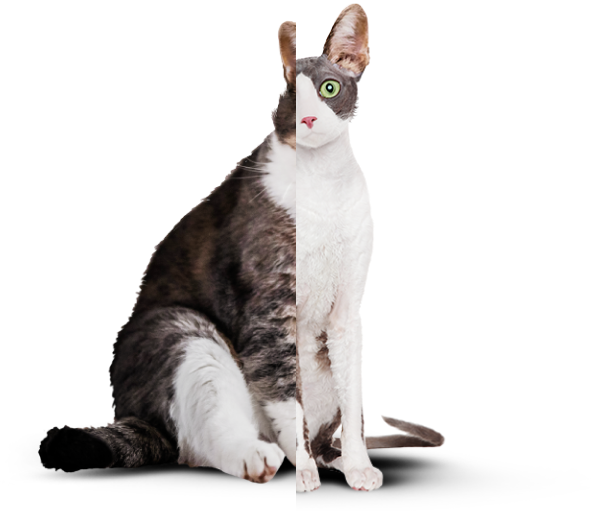
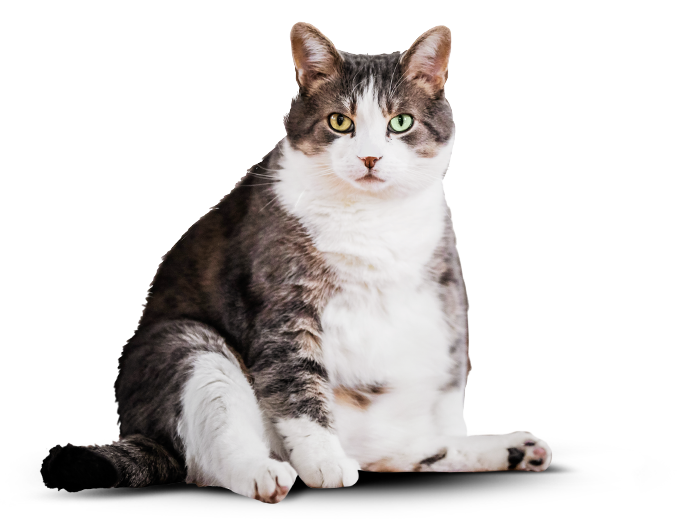
производительность вёрстки

Changed region(s): [[0.0608, 0.0, 0.8514, 0.9687]]

diff --git a/source/index.html b/source/index.html
@@ -5,10 +5,15 @@
   <meta charset="utf-8">
   <meta name="viewport" content="width=device-width,initial-scale=1">
   <title>HTML Academy: Кэт энерджи</title>
-  <link rel="icon" href="favicon.ico"><!-- 32×32 -->
+  <link rel="icon" href="favicon.ico">
   <link rel="icon" href="img/favicons/icon-32.svg" type="image/svg+xml">
-  <link rel="apple-touch-icon" href="img/favicons/apple-icon-180.png"><!-- 180×180 -->
+  <link rel="apple-touch-icon" href="img/favicons/apple-icon-180.png">
+  <link rel="manifest" href="manifest.webmanifest">
   <link rel="stylesheet" href="css/style.min.css">
+  <link rel="preload" href="fonts/oswaldregular.woff2" type="font/woff2" as="font" crossorigin="anonymous">
+  <link rel="preload" href="fonts/oswaldmedium.woff2" type="font/woff2" as="font" crossorigin="anonymous">
+  <link rel="preload" href="fonts/oswaldregular.woff" type="font/woff" as="font" crossorigin="anonymous">
+  <link rel="preload" href="fonts/oswaldmedium.woff" type="font/woff" as="font" crossorigin="anonymous">
 </head>
 
 <body class="page__body">
@@ -62,7 +67,7 @@
             <img class="promo__image" src="img/index-can-mobile.png" srcset="img/index-can-mobile@2x.png 2x" width="280"
               height="270" alt="Функциональное питание c курицей.">
           </picture>
-          <a class="button-choose-program button--green button" href="form.html">Подобрать программу</a>
+          <a class="button-choose-program button button--green" href="form.html">Подобрать программу</a>
         </div>
       </section>
       <section class="programs">
@@ -73,13 +78,13 @@
               <h3 class="programs__title">Похудение</h3>
               <p class="programs__description">Ваш кот весит больше собаки и почти утратил способность лазить по
                 деревьям? Пора на диету! Cat Energy Slim поможет вашему питомцу сбросить лишний вес.</p>
-              <a href="catalog.html" class="programs__link">каталог slim</a>
+              <a class="programs__link" href="catalog.html">каталог slim</a>
             </li>
             <li class="programs__item programs__item--pro">
               <h3 class="programs__title">Набор массы</h3>
               <p class="programs__description">Заработать авторитет среди дворовых котов и даже собак? Серия Cat Energy
                 Pro поможет вашему коту нарастить необходимые мышцы!</p>
-              <a href="catalog.html" class="programs__link">каталог pro</a>
+              <a class="programs__link" href="catalog.html">каталог pro</a>
             </li>
           </ul>
         </div>
@@ -135,25 +140,33 @@
           <div class="case__photo slider">
             <h3 class="visually-hidden">Фото до и после</h3>
             <div class="slider__photo">
-              <picture>
-                <source type="image/webp" media="(min-width: 768px)"
-                  srcset="img/cat-before-tablet.webp, img/cat-before-tablet@2x.webp 2x">
-                <source type="image/webp" srcset="img/cat-before-mobile.webp, img/cat-before-mobile@2x.webp 2x">
-                <source media="(min-width: 768px)" srcset="img/cat-before-tablet.png, img/cat-before-tablet@2x.png 2x">
-                <img class="slider__photo-before" src="img/cat-before-mobile.png"
-                  srcset="img/cat-before-mobile@2x.png 2x" width="280" height="232" alt="Толстый кот.">
-              </picture>
-              <!--
-              <picture>
-                <img class="slider__photo-after" src="img/after-mobile.png" srcset="img/before-mobile@2x.png 2x"
-                  width="280" height="232" alt="Тощий кот.">
-                -->
+              <div class="slider__photo-after">
+                <picture>
+                  <source type="image/webp" media="(min-width: 768px)"
+                    srcset="img/cat-after-tablet.webp, img/cat-after-tablet@2x.webp 2x">
+                  <source type="image/webp" srcset="img/cat-after-mobile.webp, img/cat-after-mobile@2x.webp 2x">
+                  <source media="(min-width: 768px)" srcset="img/cat-after-tablet.png, img/cat-after-tablet@2x.png 2x">
+                  <img src="img/cat-after-mobile.png" srcset="img/cat-after-mobile@2x.png 2x" width="280" height="232"
+                    alt="Тощий кот.">
+                </picture>
+              </div>
+              <div class="slider__photo-before">
+                <picture>
+                  <source type="image/webp" media="(min-width: 768px)"
+                    srcset="img/cat-before-tablet.webp, img/cat-before-tablet@2x.webp 2x">
+                  <source type="image/webp" srcset="img/cat-before-mobile.webp, img/cat-before-mobile@2x.webp 2x">
+                  <source media="(min-width: 768px)"
+                    srcset="img/cat-before-tablet.png, img/cat-before-tablet@2x.png 2x">
+                  <img src="img/cat-before-mobile.png" srcset="img/cat-before-mobile@2x.png 2x" width="280" height="232"
+                    alt="Толстый кот.">
+                </picture>
+              </div>
             </div>
             <div class="slider__range">
               <p class="slider__range-text">было</p>
               <div class="slider__progressbar">
                 <div class="slider__track"></div>
-                <button class="slider__thumb"></button>
+                <button class="slider__thumb" type="button"></button>
               </div>
               <p class="slider__range-text">стало</p>
             </div>
@@ -167,8 +180,7 @@
             <h3 class="visually-hidden">Адрес</h3><b class="contacts__prompt">приглашаем<br>к
               сотрудничеству<br>дилеров!</b>
             <p class="contacts__text">ул. Большая<br>Конюшенная, д. 19/8<br><span
-                class="contacts__city">Санкт-Петербург</span>
-            </p>
+                class="contacts__city">Санкт-Петербург</span></p>
           </div>
         </div>
         <div class="contacts__location">
@@ -232,6 +244,7 @@
       </div>
     </footer>
   </div>
+
   <script src="js/script.js"></script>
 </body>
 

diff --git a/source/catalog.html b/source/catalog.html
@@ -5,10 +5,15 @@
   <meta charset="utf-8">
   <meta name="viewport" content="width=device-width,initial-scale=1">
   <title>HTML Academy: Кэт энерджи</title>
-  <link rel="icon" href="favicon.ico"><!-- 32×32 -->
+  <link rel="icon" href="favicon.ico">
   <link rel="icon" href="img/favicons/icon-32.svg" type="image/svg+xml">
-  <link rel="apple-touch-icon" href="img/favicons/apple-icon-180.png"><!-- 180×180 -->
+  <link rel="apple-touch-icon" href="img/favicons/apple-icon-180.png">
+  <link rel="manifest" href="manifest.webmanifest">
   <link rel="stylesheet" href="css/style.min.css">
+  <link rel="preload" href="fonts/oswaldregular.woff2" type="font/woff2" as="font" crossorigin="anonymous">
+  <link rel="preload" href="fonts/oswaldmedium.woff2" type="font/woff2" as="font" crossorigin="anonymous">
+  <link rel="preload" href="fonts/oswaldregular.woff" type="font/woff" as="font" crossorigin="anonymous">
+  <link rel="preload" href="fonts/oswaldmedium.woff" type="font/woff" as="font" crossorigin="anonymous">
 </head>
 
 <body class="page__body">
@@ -405,8 +410,7 @@
             <h3 class="visually-hidden">Адрес</h3>
             <b class="contacts__prompt">приглашаем<br>к сотрудничеству<br>дилеров!</b>
             <p class="contacts__text">ул. Большая<br>Конюшенная, д. 19/8<br><span
-                class="contacts__city">Санкт-Петербург</span>
-            </p>
+                class="contacts__city">Санкт-Петербург</span></p>
           </div>
         </div>
         <div class="contacts__location">

diff --git a/source/form.html b/source/form.html
@@ -5,10 +5,15 @@
   <meta charset="utf-8">
   <meta name="viewport" content="width=device-width,initial-scale=1">
   <title>HTML Academy: Кэт энерджи</title>
-  <link rel="icon" href="favicon.ico"><!-- 32×32 -->
+  <link rel="icon" href="favicon.ico">
   <link rel="icon" href="img/favicons/icon-32.svg" type="image/svg+xml">
-  <link rel="apple-touch-icon" href="img/favicons/apple-icon-180.png"><!-- 180×180 -->
+  <link rel="apple-touch-icon" href="img/favicons/apple-icon-180.png">
+  <link rel="manifest" href="manifest.webmanifest">
   <link rel="stylesheet" href="css/style.min.css">
+  <link rel="preload" href="fonts/oswaldregular.woff2" type="font/woff2" as="font" crossorigin="anonymous">
+  <link rel="preload" href="fonts/oswaldmedium.woff2" type="font/woff2" as="font" crossorigin="anonymous">
+  <link rel="preload" href="fonts/oswaldregular.woff" type="font/woff" as="font" crossorigin="anonymous">
+  <link rel="preload" href="fonts/oswaldmedium.woff" type="font/woff" as="font" crossorigin="anonymous">
 </head>
 
 <body class="page__body">
@@ -169,8 +174,7 @@
             <h3 class="visually-hidden">Адрес</h3>
             <b class="contacts__prompt">приглашаем<br>к сотрудничеству<br>дилеров!</b>
             <p class="contacts__text">ул. Большая<br>Конюшенная, д. 19/8<br><span
-                class="contacts__city">Санкт-Петербург</span>
-            </p>
+                class="contacts__city">Санкт-Петербург</span></p>
           </div>
         </div>
         <div class="contacts__location">

diff --git a/source/sass/blocks/slider.scss b/source/sass/blocks/slider.scss
@@ -1,24 +1,68 @@
 //.slider {}
 
 .slider__photo {
+  margin: 0 auto;
   margin-bottom: 15px;
 
   @media (min-width: $tablet-width) {
+    position: relative;
+
+    width: 592px;
+    height: 511px;
     margin-bottom: 24px;
+
+    overflow: hidden;
   }
 }
 
 .slider__photo-before {
-  display: block;
-  margin: 0 auto;
-
   @media (min-width: $tablet-width) {
-    width: 592px;
-    height: 511px;
+    position: absolute;
+    top: 0;
+    left: 32px;
+
+    width: 100%;
+    height: 100%;
+
+    clip-path: inset(0 324px 0 0);
   }
 }
 
-//.slider__photo-after {}
+.slider__photo-after {
+  display: none;
+
+  @media (min-width: $tablet-width) {
+    position: absolute;
+    top: 0;
+    right: -31px;
+
+    display: block;
+    width: 100%;
+    height: 100%;
+
+    clip-path: inset(0 0 0 268px);
+  }
+}
+
+.slider__photo-before img {
+  margin: 0 auto;
+
+  @media (min-width: $tablet-width) {
+    width: 708px;
+    height: 500px;
+
+    object-fit: cover;
+  }
+}
+
+.slider__photo-after img {
+  @media (min-width: $tablet-width) {
+    width: 708px;
+    height: 511px;
+
+    object-fit: contain;
+  }
+}
 
 .slider__range {
   display: flex;
